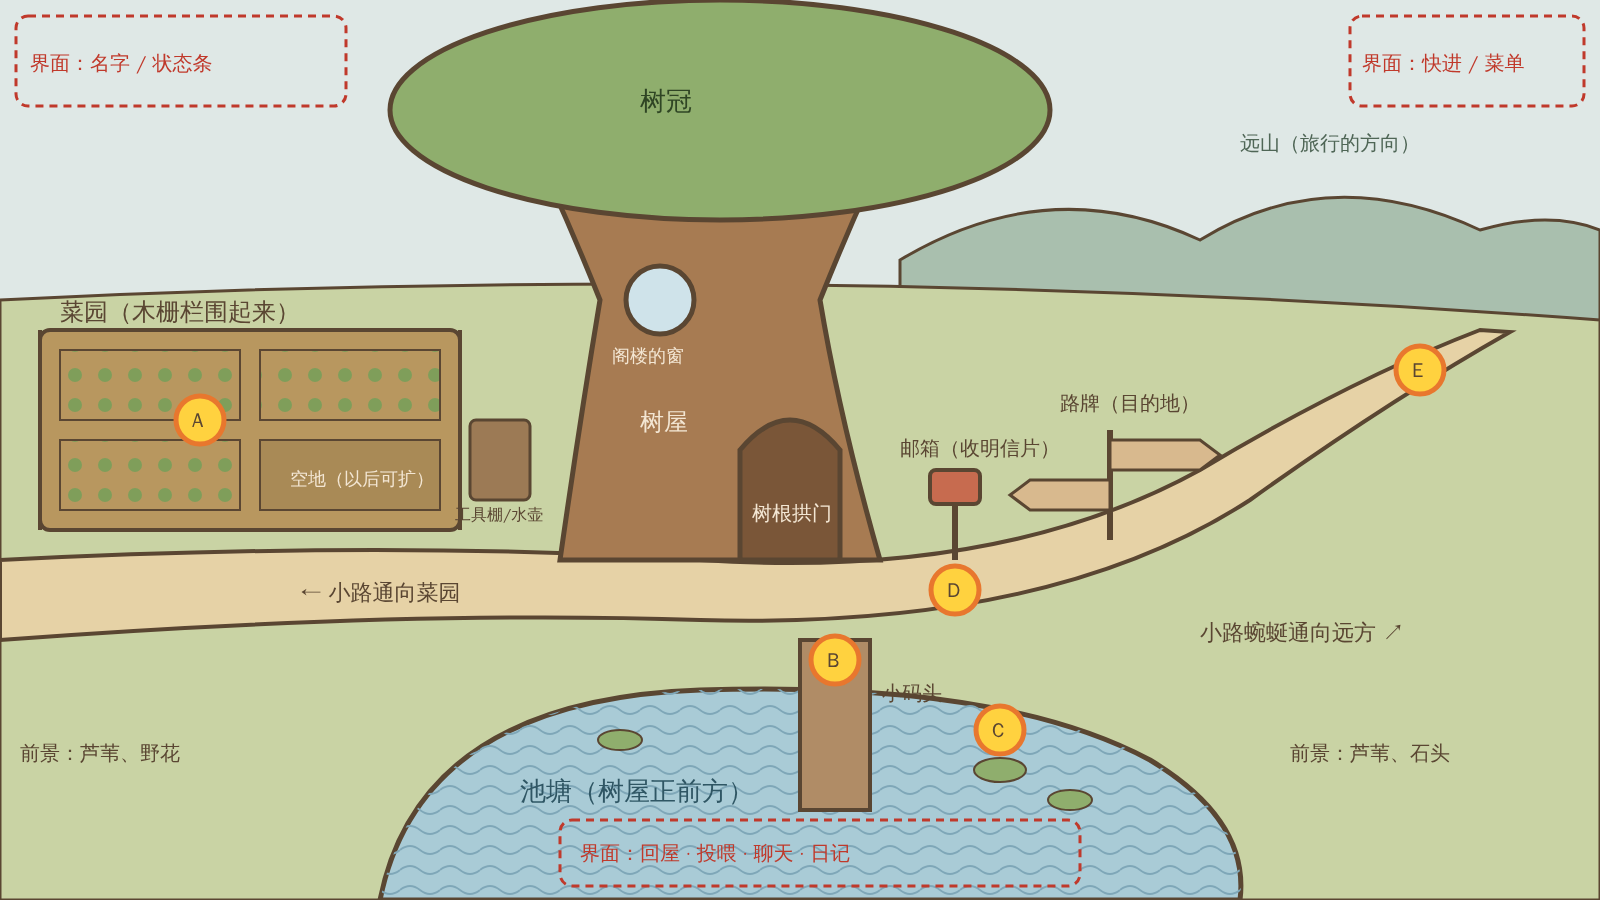
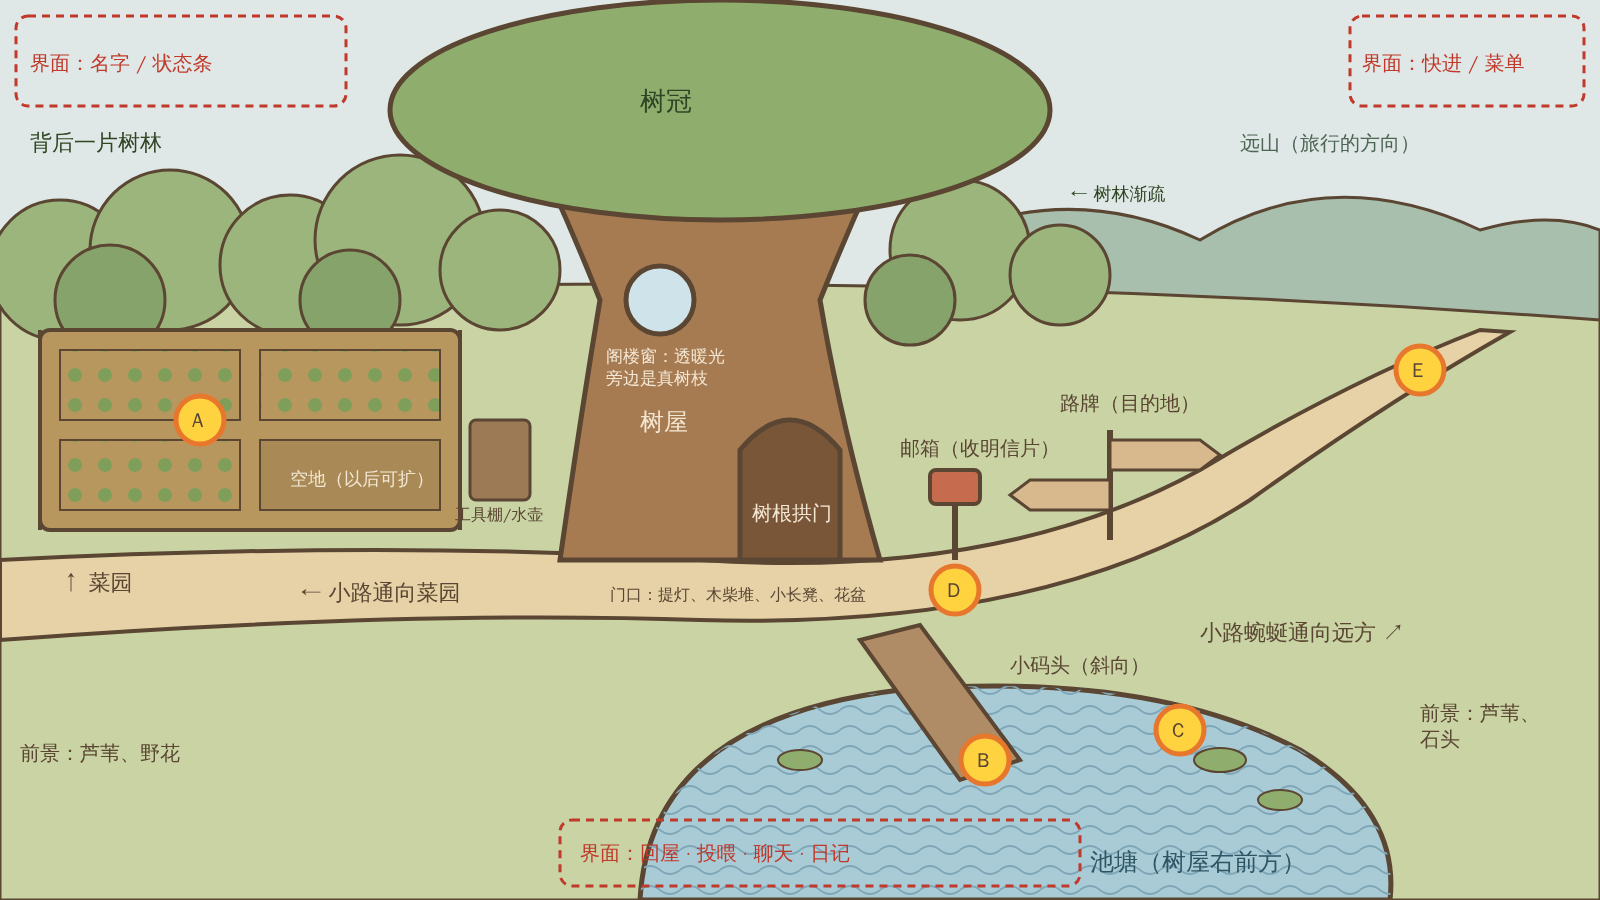
docs: 屋外全景提示词第二版——树林边缘、不对称构图、窗户和码头修正
Claude-Session: https://claude.ai/code/session_01Jqk9nnMUDNsj17DaMt5YFV

diff --git a/docs/art/GPT生图提示词-屋外全景.md b/docs/art/GPT生图提示词-屋外全景.md
@@ -5,6 +5,83 @@
 
 ---
 
+## 第二版（11-10）：针对第一次生成结果的修改
+
+### 第一次结果的问题
+
+| 问题 | 原因 | 这一版怎么改 |
+|---|---|---|
+| 整体「怪」 | 构图完全对称：树在正中、码头笔直朝下、池塘居中，像一张示意图 | 改成不对称：池塘移到树屋**右前方**，码头**斜着**伸进水里 |
+| 视角混乱 | 树是正面平视，池塘和码头却像从正上方看 | 统一成「略高的斜侧视角」，所有东西都按同一个角度画 |
+| 一棵树太突兀 | 大树孤零零立在空旷草地上，不像有人（鸭）住的地方 | 树屋长在**一片树林的边缘**，是其中最老最大的一棵；树林左密右疏，右边留出开阔地给旅行的小路 |
+| 窗户里是树叶贴图 | GPT 把叶子画进了玻璃里 | 窗户玻璃反射天空、透出屋里的暖光；树叶来自**旁边真实垂下的树枝** |
+| 太空、没生活感 | 屋内图小物件很多，屋外几乎没有 | 门口加提灯、木柴堆、小长凳、花盆、晾衣绳 |
+| 门和屋内对不上 | 屋内是没有门板的树根拱门，屋外画成了普通木门 | 树根拱门 + 一扇**敞开着**的小木门 |
+
+布局线框图已同步更新：[`layout-outdoor-landscape.png`](layout-outdoor-landscape.png)。
+
+### 生成方法
+
+**新开一个对话**（避免受上一张影响），上传：① 屋内定稿图（画风参考）；② 更新后的屋外线框图（布局参考）。说「请生成横版图片」，再粘贴下面的提示词。
+
+### 英文提示词（第二版）
+
+```
+Please generate a LANDSCAPE (horizontal) image.
+
+Use the first image I uploaded ONLY as the art style reference: keep exactly the same thin dark brown wobbly outlines, flat coloring with one darker flat shade for shadows, paper grain texture and muted warm palette. Use the second image ONLY as the layout reference. Do not copy its colors, shapes or text labels.
+
+A cozy web game background: the outside of a little duck's home at the edge of a small forest, seen from one consistent slightly elevated three-quarter view (everything drawn from the same angle). An asymmetric, natural composition, not a centered diagram. No characters, no animals, no ducks.
+
+- The home: the oldest and biggest tree at the edge of a forest, slightly left of center. Other smaller trees and bushes stand behind it and to its left, forming a forest backdrop that thins out toward the right. The home tree's roots form an arched doorway with a small wooden door left open. Higher on the trunk, a small round window: its glass reflects the sky and shows a warm light from inside, and a real leafy branch of the tree hangs beside it. No leaves painted inside the glass. Smooth bark only: no mushrooms, no shelf fungi, no stairs on the trunk.
+- Lived-in details at the door: a hanging lantern, a small stack of firewood, a little wooden bench, flower pots, a short laundry line between the tree and a post.
+- A dirt path passes in front of the door and runs across the image: to the left it leads to the garden; to the right it winds toward the upper right, getting narrower and disappearing between soft distant hills, suggesting a long journey.
+- Left: a small vegetable garden with a low wooden fence at the forest edge: three beds of growing vegetables (carrots, cabbages, tomatoes on sticks) and one bed of bare soil, a tiny tool shed and a watering can.
+- Right of the door: a small red mailbox on a post beside the path, and a wooden signpost with blank arrow boards (no writing).
+- Foreground, to the right front of the tree: a calm pond with lily pads; a short wooden dock goes diagonally from the path into the water.
+- Background: soft distant hills on the right, a pale sky with a few simple clouds.
+- Foreground edges: reeds and wildflowers bottom left, reeds and stones bottom right.
+- Leave small empty spots: inside the garden, at the end of the dock, on the open water, beside the mailbox, and on the far part of the path. Keep the top-left corner, top-right corner and bottom-center edge simple, because UI will cover them.
+
+Art style: same as the reference image. Hand-drawn picture-book illustration, thin dark brown outlines of even weight, slightly wobbly. Flat color fills, shadows only one slightly darker flat shade, no gradients, no glossy highlights, no realistic lighting. Subtle paper grain. Muted low-saturation palette: warm wood browns, beige, moss and sage green, dusty blue water, pale sky, with tiny accents of coral red and mustard yellow.
+
+Avoid: symmetric centered composition, a lone tree in an empty field, a dock pointing straight at the viewer, mixed perspectives, leaves drawn inside the window glass, portrait composition, interior view, characters or animals, mushrooms or shelf fungi on the tree, stairs on the trunk, text on the signpost, labels, thick cartoon outlines, vector clip-art look, 3D rendering, saturated colors, watermark, UI buttons.
+```
+
+### 中文对照（第二版）
+
+```
+请生成一张横版图片。
+
+第一张图只作画风参考（深棕色手抖细描边、扁平上色、阴影只用深一档纯色、纸张颗粒、低饱和暖色调，完全保持一致）；第二张图只作位置关系参考，不照抄颜色、形状和文字。
+
+网页游戏背景：小鸭子的家的外面，位于一片小树林的边缘。整张图用同一个「略高的斜侧视角」画，构图自然、不对称，不要像居中的示意图。没有任何角色、动物或鸭子。
+
+- 家：树林边缘最老最大的一棵树，位置略偏左。它后面和左边有其他较小的树和灌木，形成树林背景，越往右越稀疏。树根形成拱门，一扇小木门敞开着。树干高处一个小圆窗：玻璃反射天空、透出屋里的暖光，旁边垂下一根真实的带叶树枝。玻璃里不要画树叶。树干只有树皮：不要蘑菇、层状菌或台阶。
+- 门口的生活细节：一盏挂着的提灯、一小堆木柴、一张小木长凳、几个花盆、树和木桩之间一段晾衣绳。
+- 一条土路从门前经过、横贯画面：往左通向菜园；往右向右上方蜿蜒，越来越窄，消失在远处柔和的山丘之间，像通向很远的地方。
+- 左边：树林边上低矮木栅栏围着的小菜园，三块菜畦（胡萝卜、白菜、搭竹竿的番茄）和一块空泥地，一个小工具棚和水壶。
+- 门的右边：路旁木桩上一个红色小邮箱；一个木头路牌，箭头板上没有字。
+- 前景、树屋右前方：一片平静的池塘和荷叶；一条短木码头从路边斜着伸进水里。
+- 背景：右侧远处柔和的山丘，淡色天空和几朵简单的云。
+- 前景边缘：左下芦苇和野花，右下芦苇和石头。
+- 留空位：菜园里、码头尽头、开阔水面、邮箱旁、小路远端。左上角、右上角和底部中间保持简单，界面会盖在那里。
+
+画风：和参考图一致（同上）。
+
+不要：对称居中构图、空旷草地上孤零零一棵树、正对镜头的码头、混乱的透视、画在窗玻璃里的树叶、竖版、室内、角色或动物、树上的蘑菇或层状菌、树干台阶、路牌文字、标注、粗卡通描边、矢量剪贴画风、3D 渲染、高饱和色、水印、界面按钮。
+```
+
+### 如果只差一点
+
+- 窗户又是贴图：「保持其他不变，窗玻璃里不要树叶，改成反射天空和透出暖光，在窗户旁边画一根真实垂下的树枝。」
+- 还是像一棵孤树：「保持其他不变，在大树后面和左边加一片较小的树和灌木，让它看起来长在树林边缘。」
+- 码头还是正对镜头：「保持其他不变，把码头改成从路边斜着伸进水里。」
+
+---
+
+# 第一版（已被第二版取代）
+
 ## 1. 布局思路
 
 从左到右一条小路贯穿画面，树屋在中间，池塘在树屋正前方：
